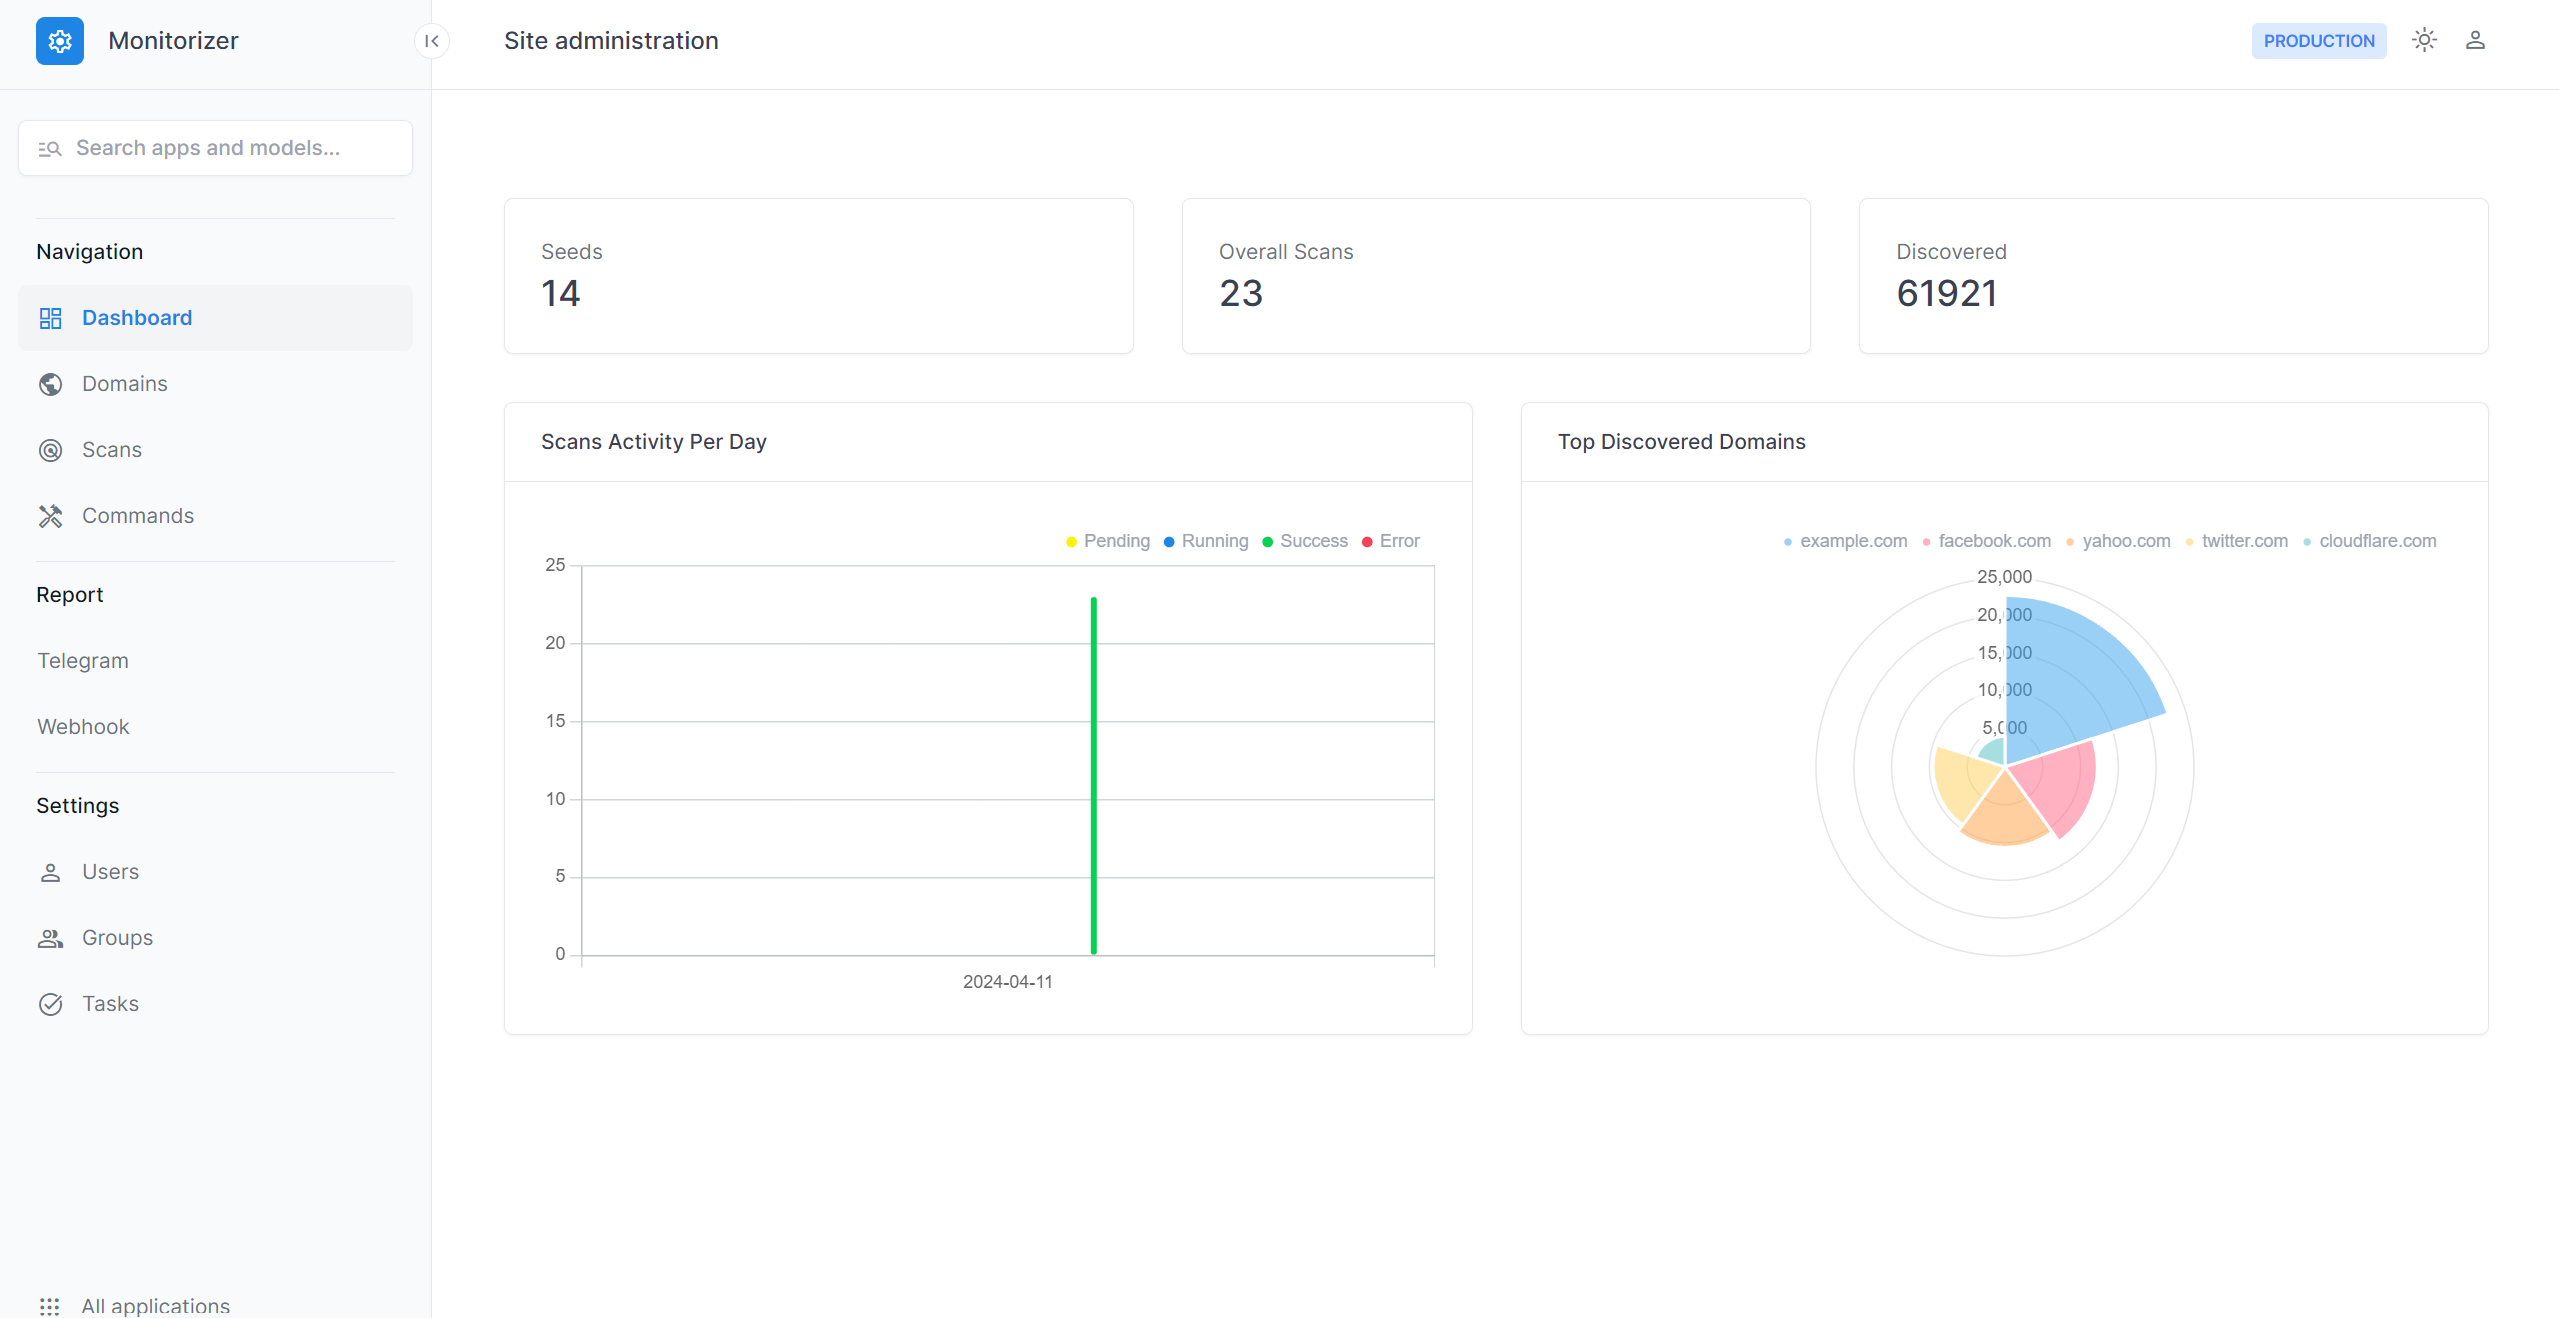
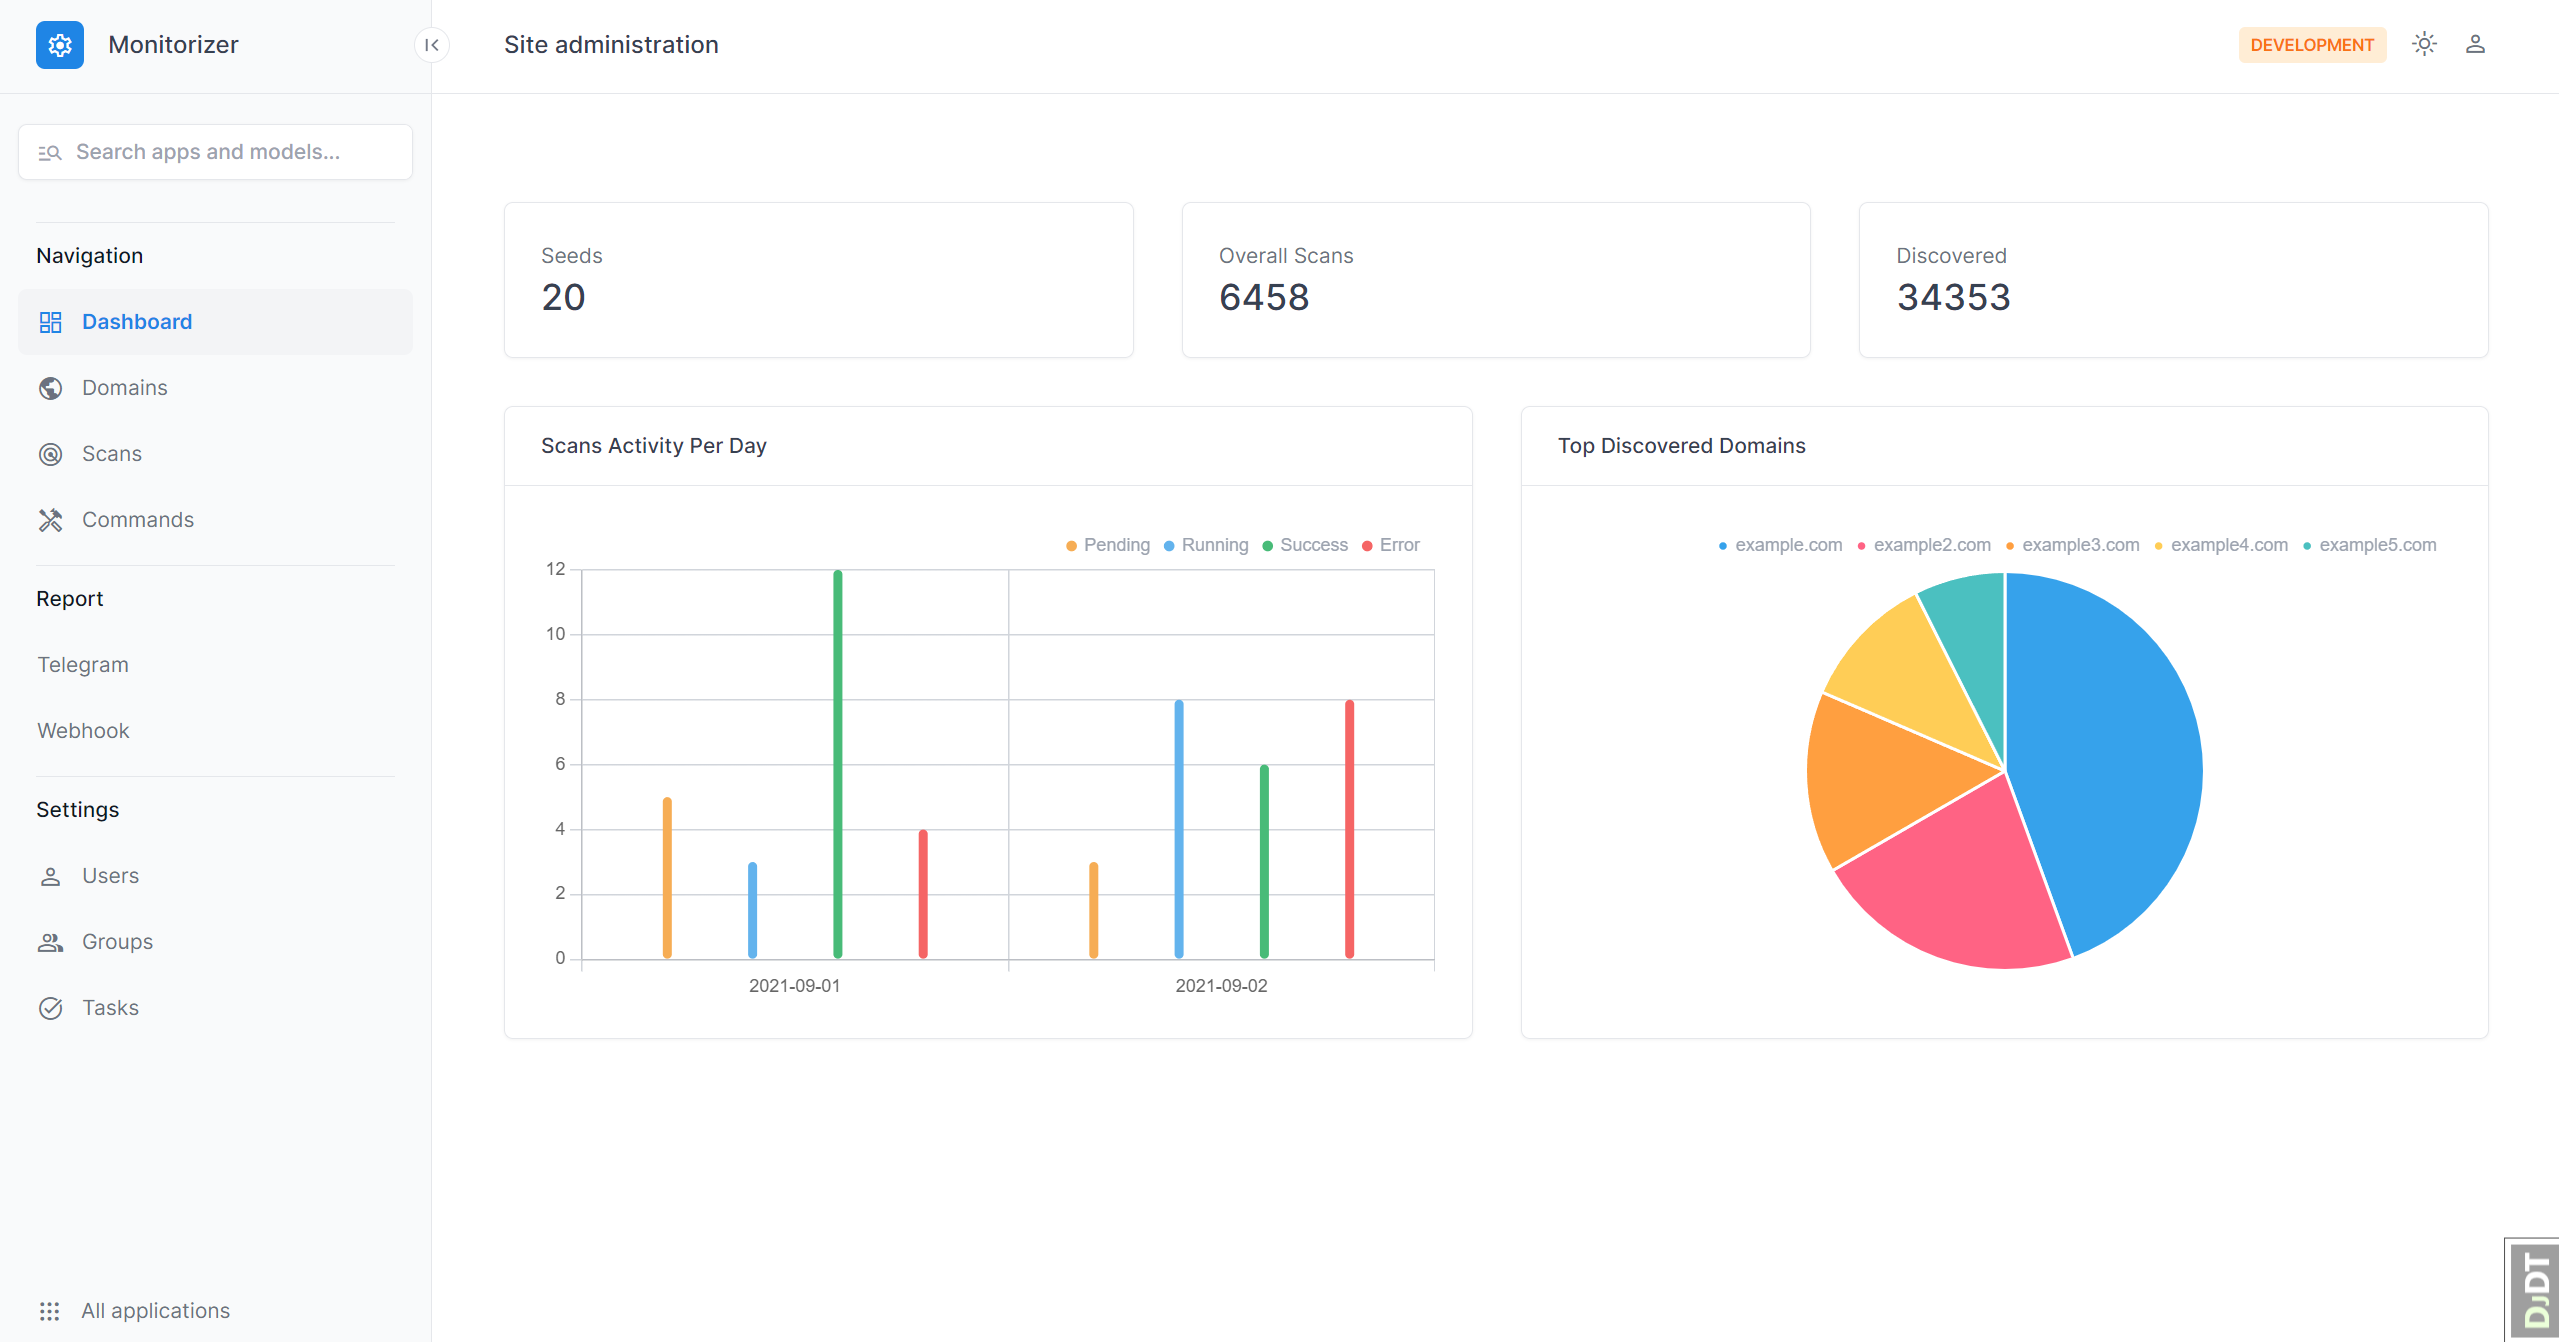
changes

diff --git a/monitorizer/templates/admin/index.html b/monitorizer/templates/admin/index.html
@@ -47,7 +47,7 @@
             {% endcomponent %}
             {% component "unfold/components/card.html" with class="lg:w-1/2" title="Top Discovered Domains" %}
                 {% component "unfold/components/flex.html" with col=1 class="gap-8" %}
-                    {% component "admin/components/chart/polarArea.html" with data=discovered_breakdown options=DEFAULT_CHART_OPTIONS %}{% endcomponent %}
+                    {% component "admin/components/chart/pie.html" with data=discovered_breakdown options=DEFAULT_CHART_OPTIONS %}{% endcomponent %}
                 {% endcomponent %}
             {% endcomponent %}
         {% endcomponent %}

diff --git a/monitorizer/templates/admin/components/chart/pie.html b/monitorizer/templates/admin/components/chart/pie.html
@@ -1,0 +1,3 @@
+<div class="relative w-full{% if class %} {{ class }}{% endif %}">
+    <canvas class="chart" {% if options %}data-options="{{ options }}" {% endif %} data-type="pie" data-value="{{ data }}" {% if width %}width="{{ width }}"{% endif %} {% if height %}height="{{ height }}"{% endif %}></canvas>
+</div>

diff --git a/monitorizer/inventory/callback.py b/monitorizer/inventory/callback.py
@@ -9,16 +9,11 @@ DEFAULT_CHART_OPTIONS = {
     "barPercentage": 1,
     "base": 0,
     "grouped": True,
-    "maxBarThickness": 4,
+    "maxBarThickness": 6,
     "responsive": True,
     "maintainAspectRatio": False,
     "datasets": {
-        "bar": {
-            "borderRadius": 12,
-            "border": {"width": 0},
-            "borderSkipped": "middle",
-        },
-        "line": {"borderWidth": 2, "pointBorderWidth": 0, "pointStyle": False},
+        "bar": {"borderRadius": 12, "border": {"width": 0}, "borderSkipped": "middle"},
     },
     "plugins": {
         "legend": {
@@ -86,22 +81,22 @@ def dashboard_callback(request, context):
                         {
                             "label": "Pending",
                             "data": [v["pending"] for v in scans_per_day.values()],
-                            "backgroundColor": "#faf20a",
+                            "backgroundColor": "#f6ad55",
                         },
                         {
                             "label": "Running",
                             "data": [v["running"] for v in scans_per_day.values()],
-                            "backgroundColor": "#1f85e5",
+                            "backgroundColor": "#63b3ed",
                         },
                         {
                             "label": "Success",
                             "data": [v["success"] for v in scans_per_day.values()],
-                            "backgroundColor": "#0ad153",
+                            "backgroundColor": "#48bb78",
                         },
                         {
                             "label": "Error",
                             "data": [v["error"] for v in scans_per_day.values()],
-                            "backgroundColor": "#f54257",
+                            "backgroundColor": "#f56565",
                         },
                     ],
                 }
